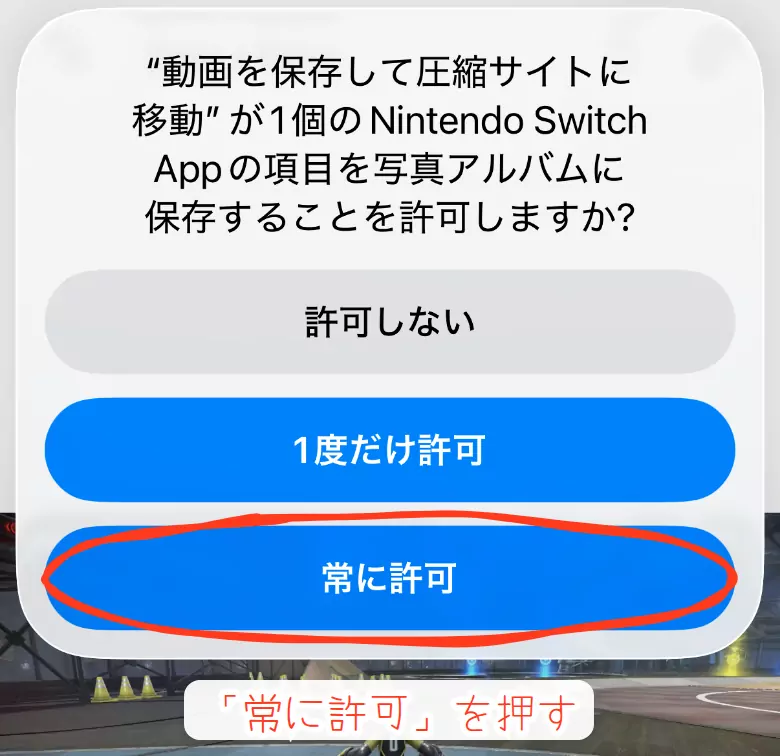
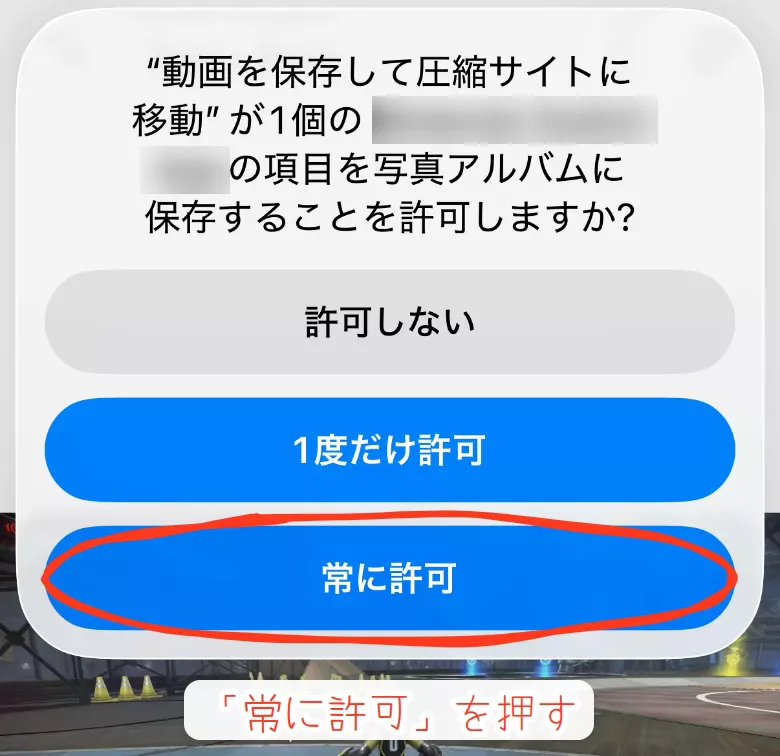
docs: ショートカットの説明画像のゲーム名とアプリ名の文字にぼかしを入れる
- 1・2枚目の上部の「Drag x Drive」、3枚目の左上の「◀ Nintendo Switch…」、
  初めて実行したときの確認画面（perm-1）の「Nintendo Switch App」をぼかす
- 画像をキャッシュし直すよう Service Worker の版を上げる

Claude-Session: https://claude.ai/code/session_01Kjx2uZRnB9w1XNEyRL87P8

Changed region(s): [[0.4615, 0.1217, 0.8615, 0.213], [0.1846, 0.1825, 0.3077, 0.2738]]

diff --git a/public/sw.js b/public/sw.js
@@ -8,7 +8,7 @@
  */
 'use strict';
 
-var CACHE = 'video-compressor-under20mb-v82';
+var CACHE = 'video-compressor-under20mb-v83';
 var NETWORK_TIMEOUT_MS = 3000;   // ネット優先のとき、ネットの応答をこれだけ待ってからキャッシュを使う
 
 // Cloudflare Pages のプレビュー（<ブランチ名>.<プロジェクト名>.pages.dev）と手元の確認環境だけネット優先にする
